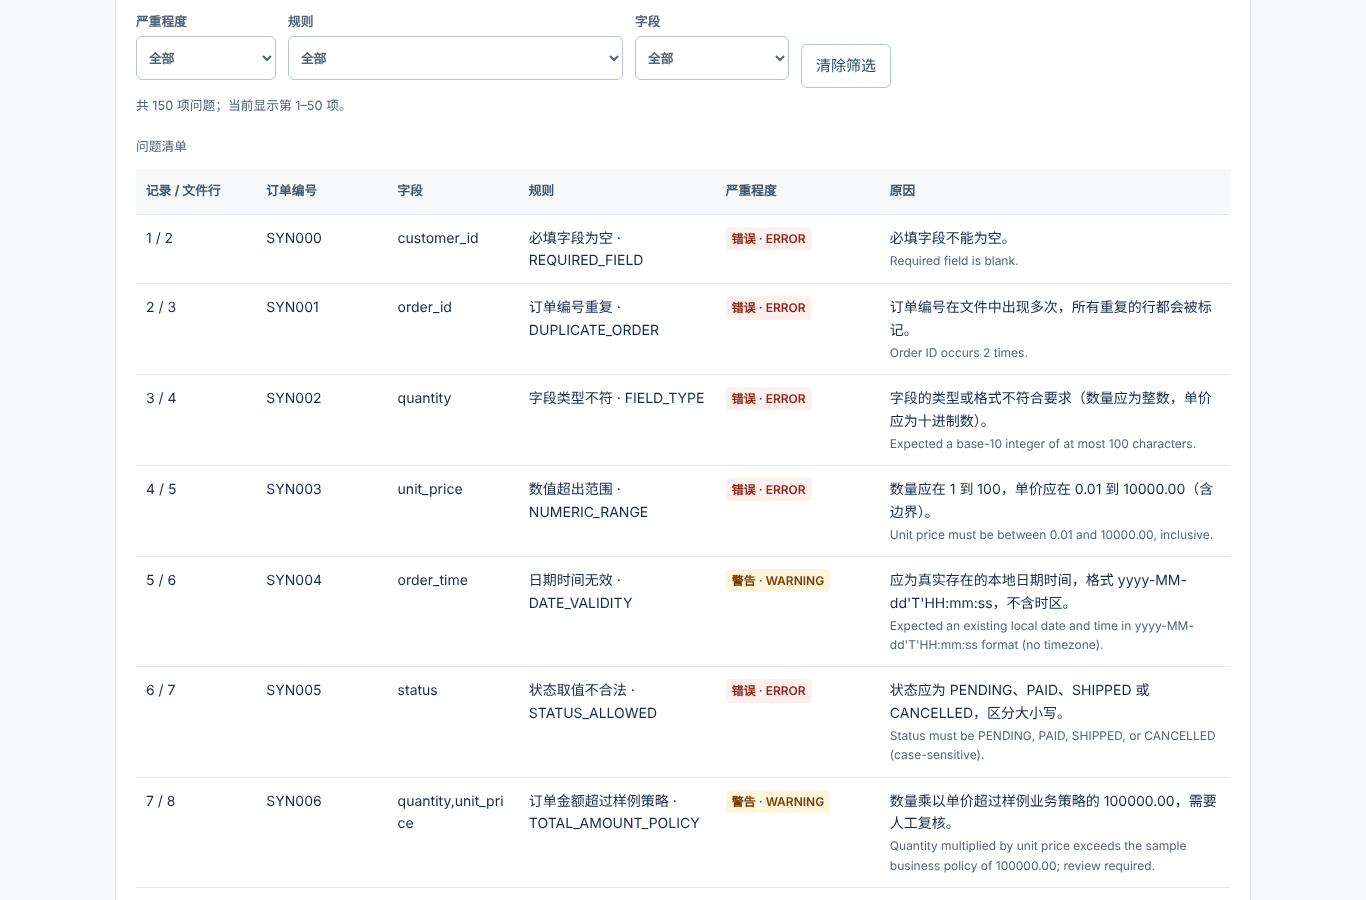
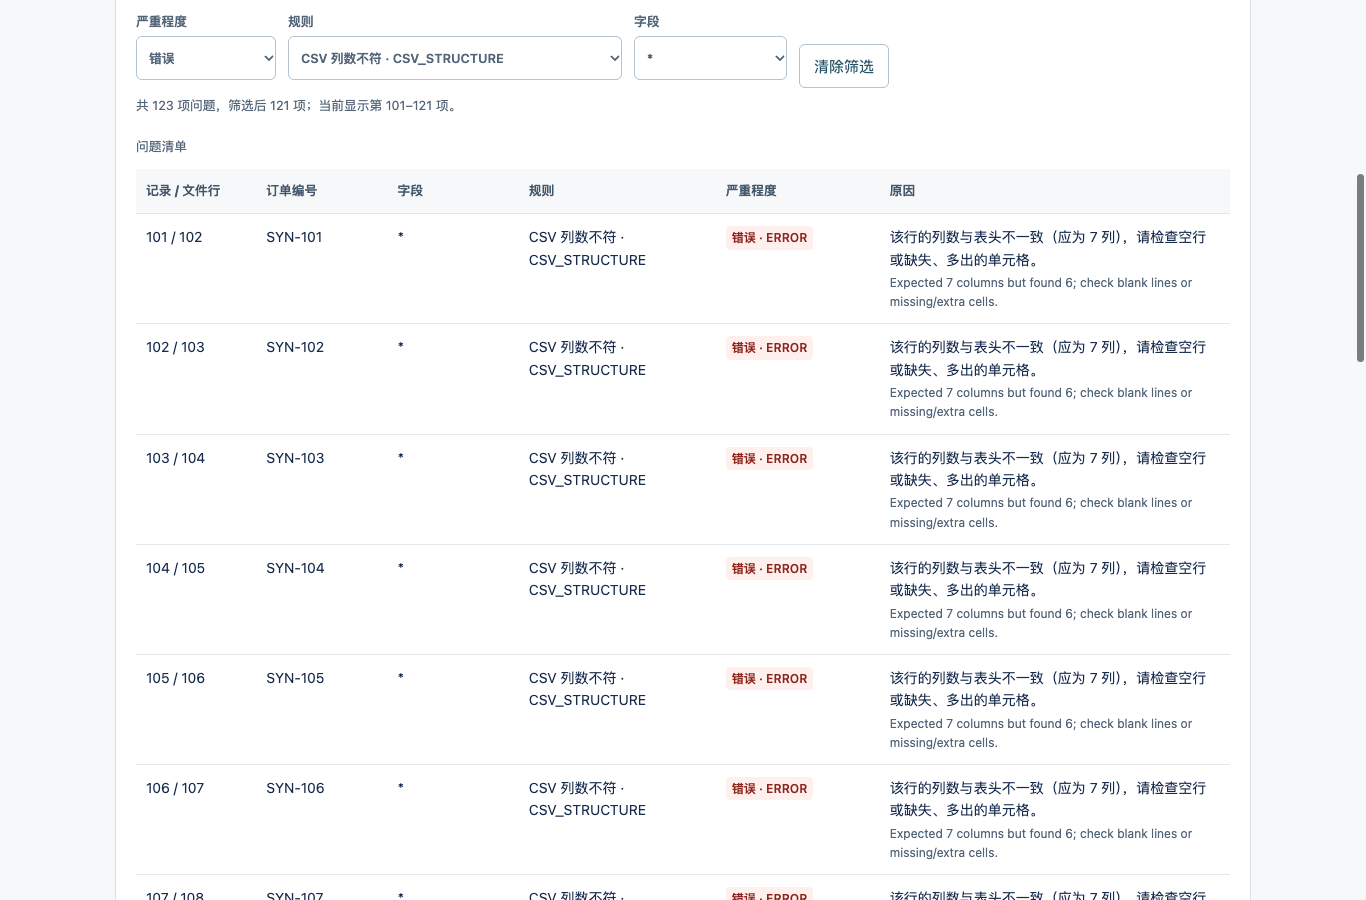
Verify issue review against the local backend

diff --git a/src/main/resources/static/app.js b/src/main/resources/static/app.js
@@ -31,8 +31,14 @@ function cell(row, value, label) {
 async function action(work) {
   if (busy) return;
   busy = true;
+  const trigger = document.activeElement;
   document.querySelectorAll('button, #dataset, #csv-file').forEach(control => { control.disabled = true; });
-  try { await work(); } catch (error) { message(error.message, true); }
+  try { await work(); } catch (error) {
+    message(error.message, true);
+    const focus = document.activeElement;
+    if (trigger?.matches('button, #dataset, #csv-file') && (focus === document.body || focus === trigger))
+      byId('message').focus({preventScroll: true});
+  }
   finally {
     busy = false;
     document.querySelectorAll('button, #dataset, #csv-file').forEach(control => { control.disabled = false; });

diff --git a/docs/frontend-stage1.md b/docs/frontend-stage1.md
@@ -1,6 +1,6 @@
 # 前端改版记录：浅色数据审查工作台
 
-这一轮只改了原生 HTML/CSS/JS 和独立 HTML 报告的展示，没有改 Controller、Service、Repository、规则、DTO、SQL 和评分公式。筛选、分页、失败反馈和下载交互还没有做。
+这一轮只改了原生 HTML/CSS/JS 和独立 HTML 报告的展示，没有改 Controller、Service、Repository、规则、DTO、SQL 和评分公式。筛选、分页、失败反馈和下载交互见文末的后续验收。
 
 ## 实际截图与测量
 
@@ -86,12 +86,22 @@ DATAGUARD_IMPORT_ROOT="$PWD/data/raw" PORT=18098 bash scripts/run.sh
 
 ## 截图与已知限制
 
-仓库里的 14 张 PNG 都来自隔离环境里的合成数据，逐张确认过文件名和内容，没有个人资料、凭据或数据库。图片需要人工看过，文本检查脚本扫不了图片里的隐私信息。
+本阶段的 14 张 PNG 都来自隔离环境里的合成数据，逐张确认过文件名和内容，没有个人资料、凭据或数据库。图片需要人工看过，文本检查脚本扫不了图片里的隐私信息。
 
 ## 问题清单的后续改动（筛选、分页、中文原因）
 
 在上面的改版之后，问题清单增加了：按严重程度、规则、字段筛选，每页 50 项的分页（不再只展示前 100 项），规则的中文名称和说明（英文原始原因保留在下方），失败信息出现在视口内并用 `role="alert"` 播报，断网时给出中文提示，忙碌时同时锁定数据集选择和文件输入，以及 JSON/HTML 报告的下载链接。后端接口、规则和评分都没有改。
 
-这部分是用一个只返回合成数据的桩 API 在 Chromium（Playwright）里验证的，不是完整的后端联调：150 项问题分 3 页，最后一项 SYN149 可以访问；规则筛选后 22 项，叠加“警告”筛选后无结果时给出提示，清除后恢复；断网时错误提示在视口内，按钮恢复可用；1366 宽和 390 宽都没有整体横向滚动，也没有未处理的 JS 异常。截图：[桌面](evidence/frontend-issues/desktop-findings.png) · [手机](evidence/frontend-issues/mobile-findings.png)。桩 API 没有放进仓库，前面的 `check-ui-stage1.py` 仍需连接真实服务。
+2026-11-07 在 macOS arm64 用 JDK 21、全新 H2 文件库、独立上传目录和回环端口 18098 启动真实后端。Chrome 156 使用临时浏览器配置。两张新截图来自这次运行，已替换此前的桩 API 截图。
 
-尚未做的：原始记录的展开查看。
+| 本机检查 | 结果 |
+| --- | --- |
+| `bash scripts/mvn.sh -o -B -ntp clean verify` | 96 项：90 通过，0 失败/错误，6 项 MySQL 测试跳过 |
+| `scripts/check-ui-stage1.py --phase after`（其余参数按上节传入） | 23 通过，0 失败/跳过；[脚本原始结果](evidence/frontend-issues/stage1-after-checks.json) |
+| 真实问题清单及停服检查 | 12 通过，0 失败/跳过；[测量与断言结果](evidence/frontend-issues/findings-checks.json) |
+
+通过网页操作上传合成 CSV（`POST /api/datasets`）、执行检测（`POST /api/tasks`），用真实报告接口逐项比对页面。输入含 121 行缺少状态列的订单、1 行金额警告和 1 行数量越界，后端返回 123 项问题。未筛选分页为 50 / 50 / 23；按严重程度、规则和字段筛选 CSV 列数问题后为 50 / 50 / 21，最后一条 `SYN-121` 可见。中文“CSV 列数不符”和接口原始英文原因同时显示；矛盾条件给出无结果提示。
+
+停止隔离后端后，用 Enter 激活“刷新”。错误提示在当前视口内，带 `role="alert"`，焦点落在提示上。修复前用鼠标触发时焦点回到页面主体；现在仅在焦点仍在触发控件或已丢到页面主体时移动焦点。1366×900 和 390×844 的整页宽度分别为 1366 / 1366 与 390 / 390（滚动宽度 / 视口宽度），无未处理 JS 异常。
+
+截图：[桌面](evidence/frontend-issues/desktop-findings.png) · [手机](evidence/frontend-issues/mobile-findings.png)。本轮没有重跑本机 MySQL、Docker 或真机浏览器；原始记录的展开查看仍未实现。
